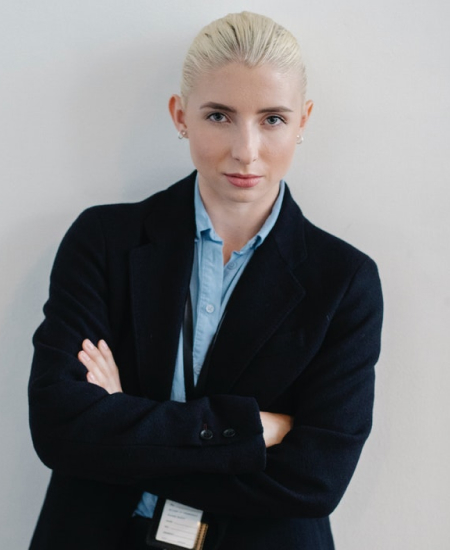
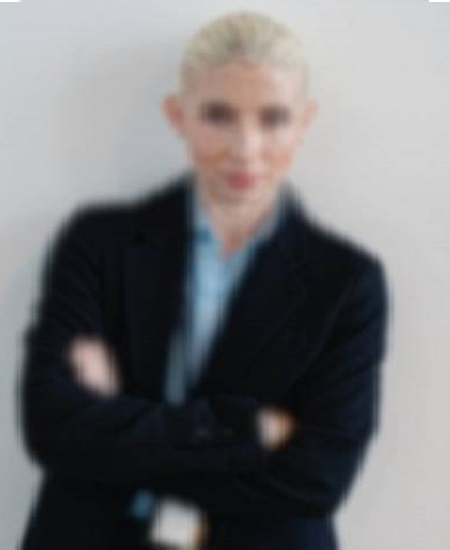
actualicion prueba 18 agosto 202 prueba

diff --git a/src/components/About.jsx b/src/components/About.jsx
@@ -177,17 +177,47 @@ const About = () => {
             <h6 className="title-subhny mb-2">
               <span>Un equipo con pasión por la innovación</span>
             </h6>
-            <h3 className="title-w3l">
-            {"Un Equipo "}
-              <span className="span-bold">Siempre pensando en cómo la tecnología transforma el futuro</span>
-            </h3>
+              <h3 className="title-w3l">
+                {"Un Equipo "}
+                  <span className="span-bold">Siempre pensando en cómo la tecnología transforma el futuro</span>
+              </h3>
           </div>
           <div className="row team-row mt-md-5 mt-4">
+                    <div className="col-lg-3 col-6 team-wrap">
+                      <div className="team-member text-center">
+                        <div className="team-img">
+                          <img
+                            src={team1}
+                            alt="Team Member"
+                            className="radius-image"
+                          />
+                          <div className="overlay-team">
+                            <div className="team-details text-center">
+                              <div className="socials mt-20">
+                                <Link to="#facebook">
+                                  <span className="fab fa-facebook-f"></span>
+                                    </Link>
+                                      <Link to="#twitter">
+                                      <span className="fab fa-twitter"></span>
+                                      </Link>
+                                  <Link to="#linkedin">
+                                  <span className="fab fa-linkedin-in"></span>
+                                </Link>
+                              </div>
+                            </div>
+                          </div>
+                        </div>
+                        <Link to="#" className="team-title">
+                          Leonardo Fierro
+                        </Link>
+                        <p>Tecnico Profesional</p>
+                      </div>
+                    </div>
             <div className="col-lg-3 col-6 team-wrap">
               <div className="team-member text-center">
                 <div className="team-img">
                   <img
-                    src={team1}
+                    src={team3}
                     alt="Team Member"
                     className="radius-image"
                   />
@@ -206,7 +236,7 @@ const About = () => {
                       </div>
                     </div>
                   </div>
-                </div>                
+                </div>
                 <Link to="#" className="team-title">
                   Yaquelin Cristancho
                 </Link>
@@ -238,42 +268,12 @@ const About = () => {
                   </div>
                 </div>
                 <Link to="#" className="team-title">
-                  Leonardo Fierro
+                  Karen Matinez
                 </Link>
-                <p>Tecnico Profesional</p>
+                <p>Diseñadora Grafica</p>
               </div>
-            </div>
-            <div className="col-lg-3 col-6 team-wrap">
-              <div className="team-member text-center">
-                <div className="team-img">
-                  <img
-                    src={team3}
-                    alt="Team Member"
-                    className="radius-image"
-                  />
-                  <div className="overlay-team">
-                    <div className="team-details text-center">
-                      <div className="socials mt-20">
-                        <Link to="#facebook">
-                          <span className="fab fa-facebook-f"></span>
-                        </Link>
-                        <Link to="#twitter">
-                          <span className="fab fa-twitter"></span>
-                        </Link>
-                        <Link to="#linkedin">
-                          <span className="fab fa-linkedin-in"></span>
-                        </Link>
-                      </div>
-                    </div>
-                  </div>
-                </div>
-                <Link to="#" className="team-title">
-                  Phillip Hunt
-                </Link>
-                <p>Gerente</p>
-              </div>
-            </div>
-            <div className="col-lg-3 col-6 team-wrap mt-lg-0 mt-5">
+             </div>
+              <div className="col-lg-3 col-6 team-wrap mt-lg-0 mt-5">
               <div className="team-member last text-center">
                 <div className="team-img">
                   <img
@@ -298,9 +298,9 @@ const About = () => {
                   </div>
                 </div>
                 <Link to="#" className="team-title">
-                  Sara Grande
+                  Cesar Ortiz
                 </Link>
-                <p>HR</p>
+                <p>Vendedor</p>
               </div>
             </div>
           </div>

diff --git a/src/components/Footer.jsx b/src/components/Footer.jsx
@@ -9,8 +9,7 @@ const Footer = () => {
           <div className="container py-lg-4">
             <div className="row align-items-center mb-3">
               <h2 className="sign-left col-lg-7">
-              Únase a nuestra comunidad utilizando nuestros servicios 
-              y haga crecer su negocio..
+              “Únete a nuestra comunidad y haz crecer tu negocio con tecnología.”
               </h2>
               <div className="footerw3-btn col-lg-5 ps-lg-5">
                 <Link to="#" className="btn btn-secondary btn-style">
